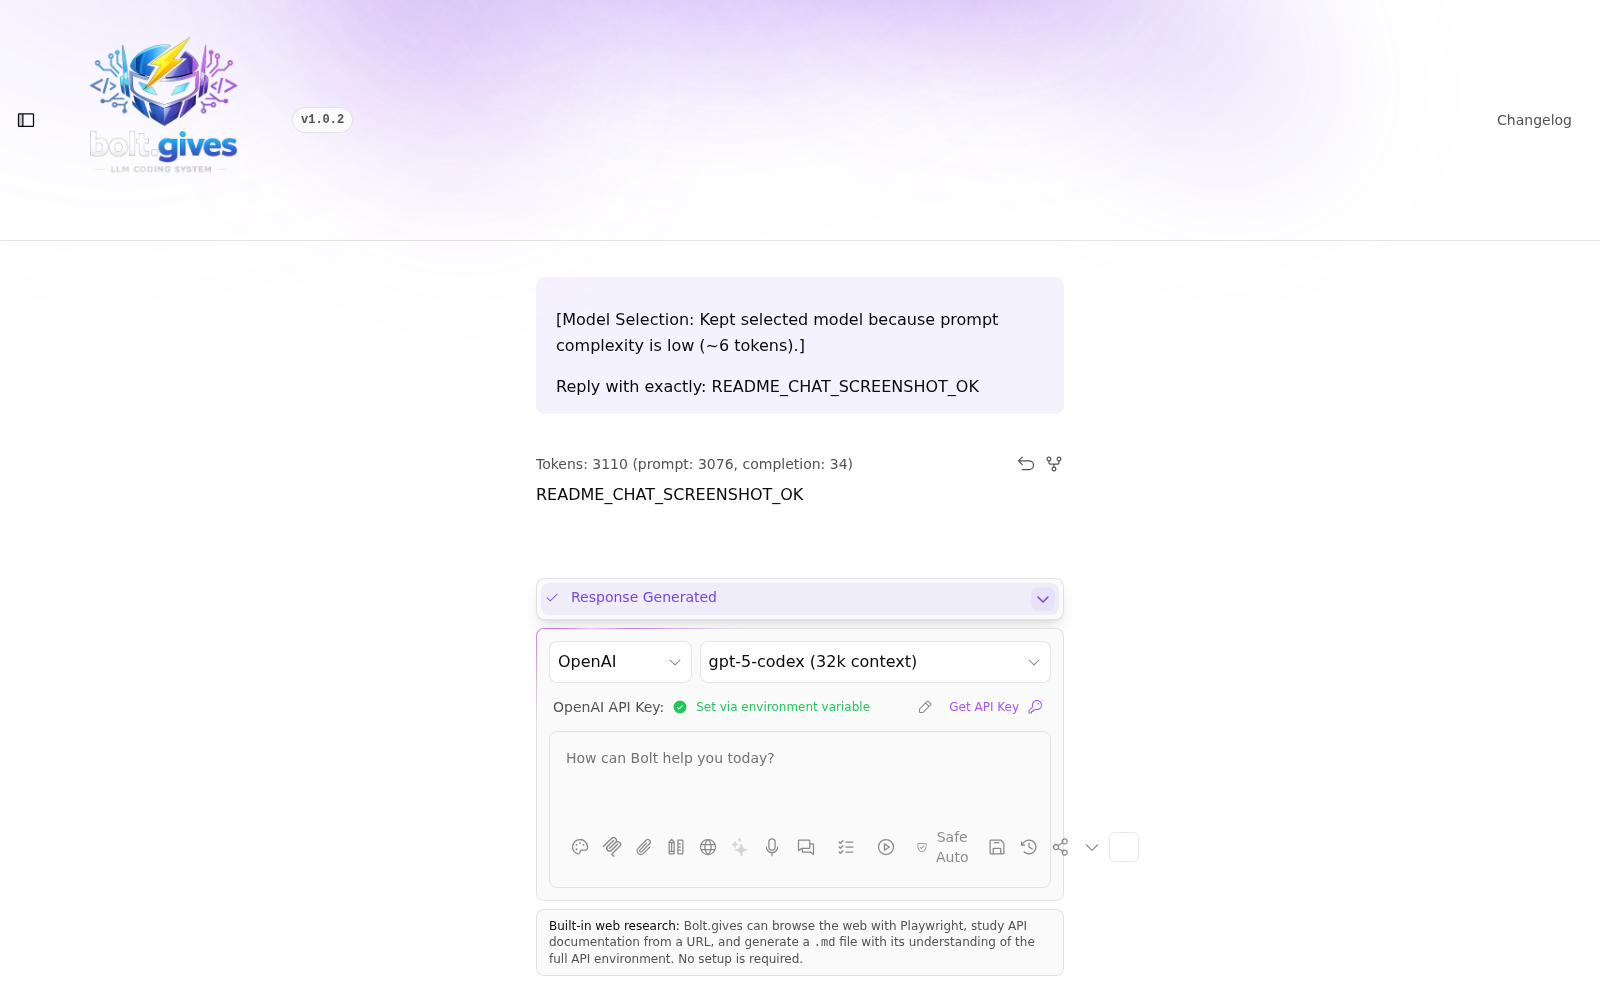
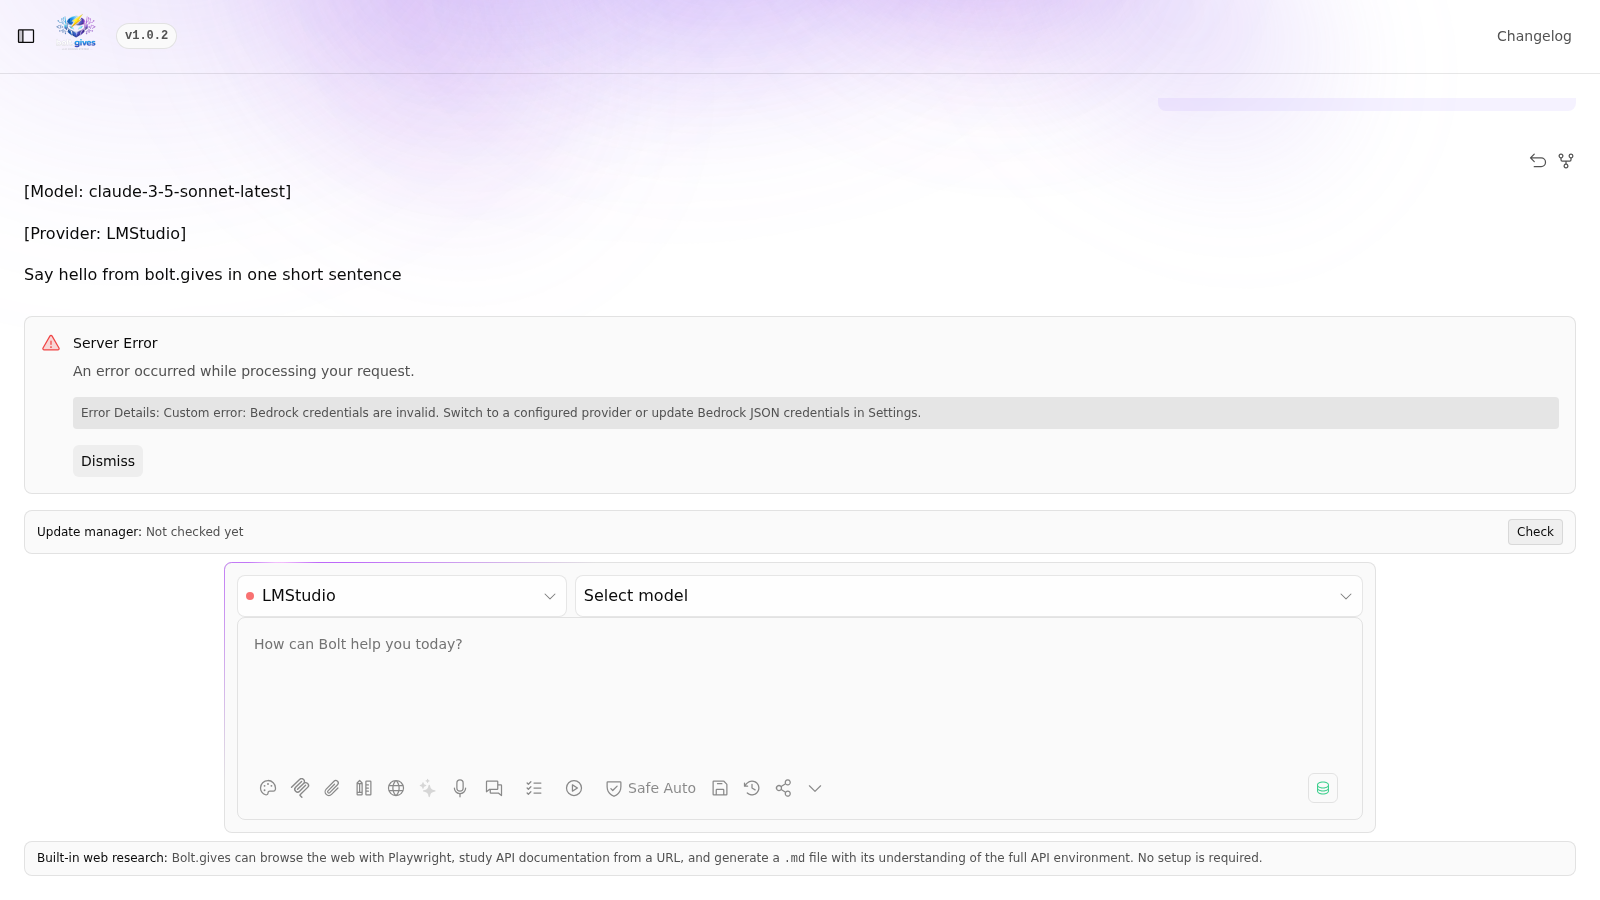
docs: refresh README screenshots from alpha and add system-in-action capture

diff --git a/README.md b/README.md
@@ -46,6 +46,9 @@ Chat:
 Plan prompt example:
 ![bolt.gives plan prompt](docs/screenshots/chat-plan.png)
 
+System in action:
+![bolt.gives system in action](docs/screenshots/system-in-action.png)
+
 Changelog:
 ![bolt.gives changelog](docs/screenshots/changelog.png)
 
@@ -256,6 +259,7 @@ Outputs:
 - `docs/screenshots/home.png`
 - `docs/screenshots/chat.png`
 - `docs/screenshots/chat-plan.png`
+- `docs/screenshots/system-in-action.png`
 - `docs/screenshots/changelog.png`
 
 To capture screenshots from the live alpha environment instead of a local dev server:
